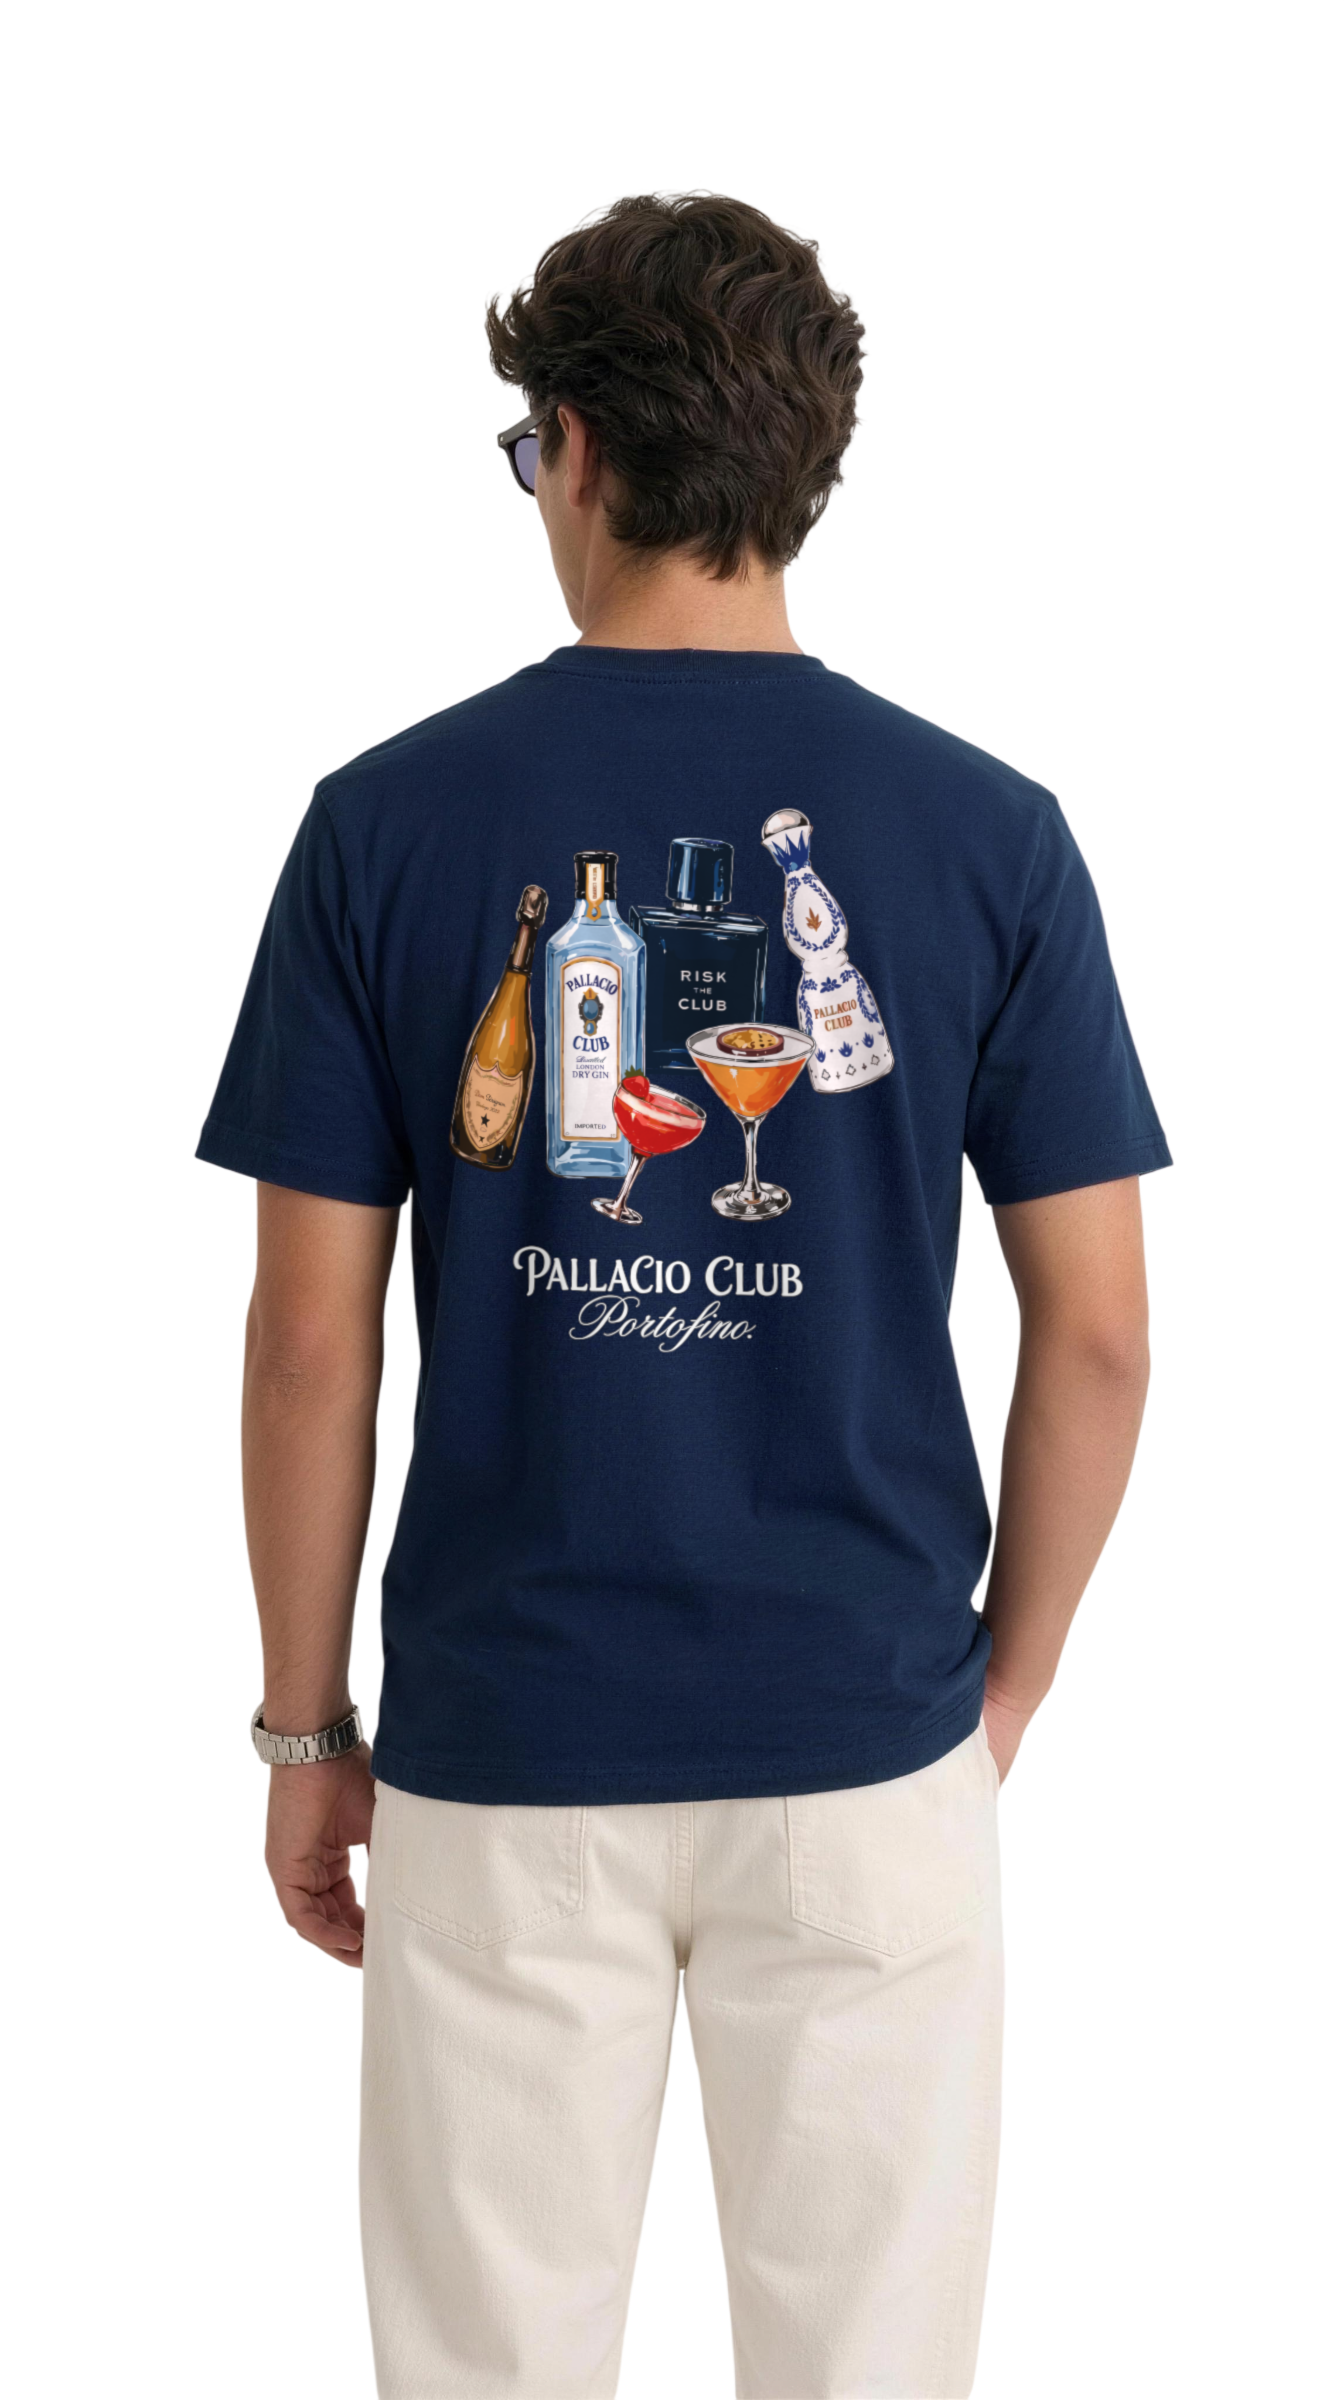
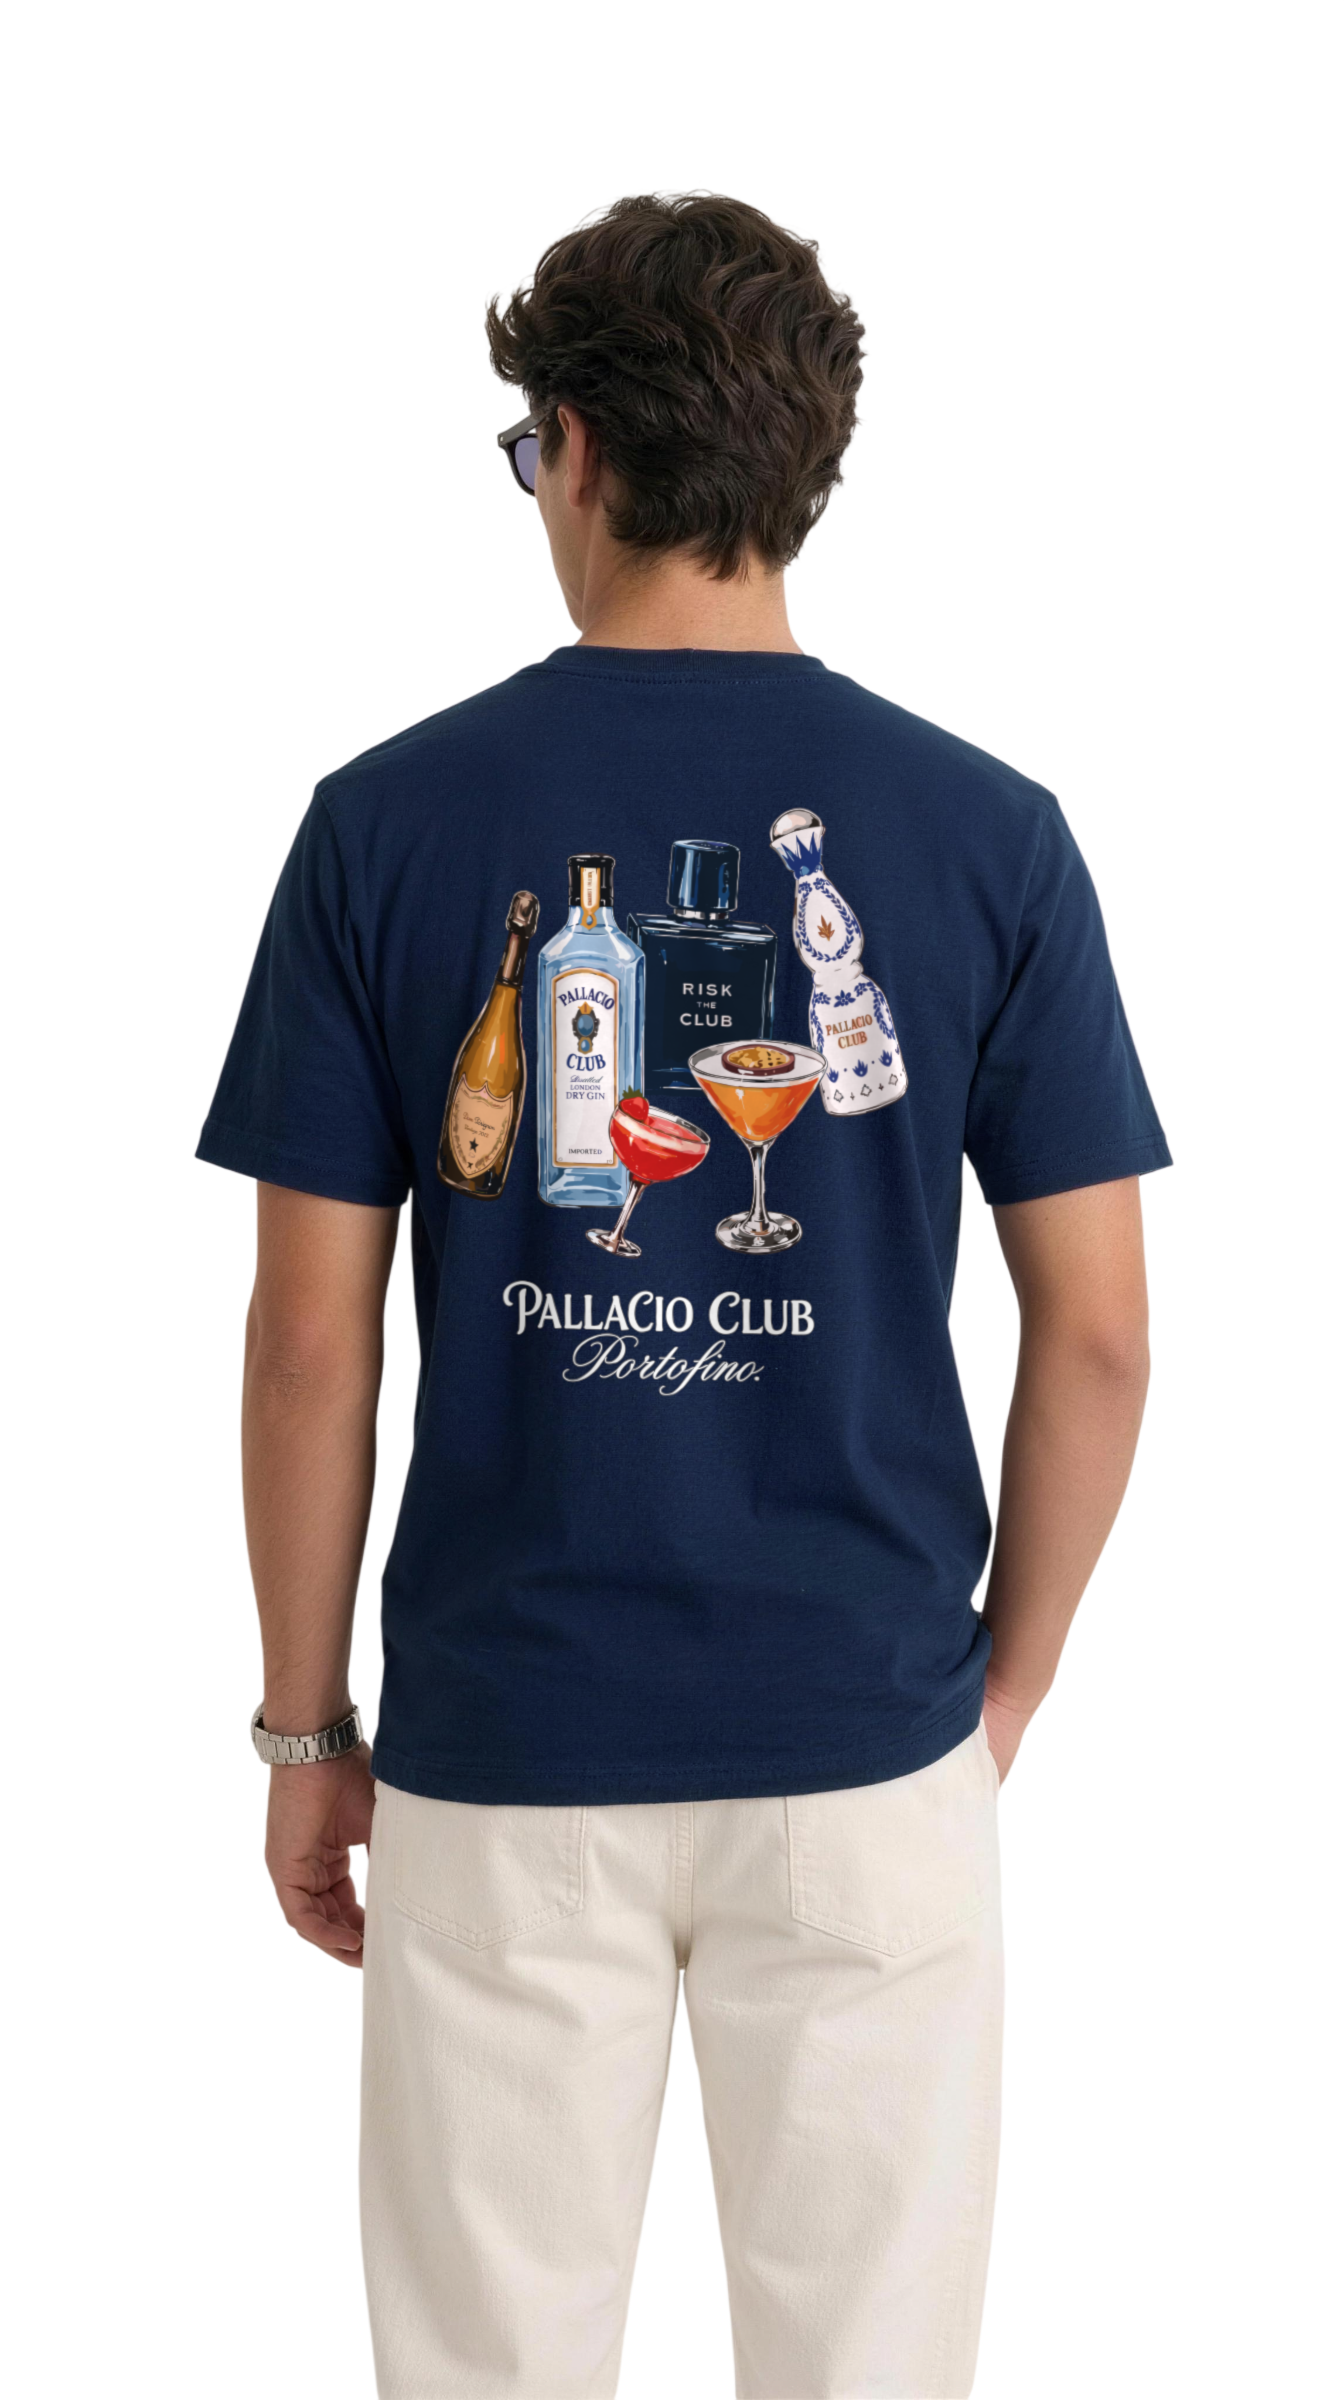
Ajustes: PORTOFINO costas 8% maior; MARTINI girada 3° p/ direita e com mais dobra/trama/granulado na tinta
Claude-Session: https://claude.ai/code/session_015dR8M9wZ7z7a7xaM1gVKNK

Changed region(s): [[0.3125, 0.3125, 0.6875, 0.5938]]

diff --git a/automacao-estampas/amostra_v31.py b/automacao-estampas/amostra_v31.py
@@ -34,6 +34,9 @@ REF = json.load(open(f'{AQUI}/dados/referencia_v2_posicao.json'))
 AJ = {k: v for k, v in json.load(open(f'{AQUI}/dados/ajustes_v31.json')).items() if not k.startswith('_')} \
     if os.path.exists(f'{AQUI}/dados/ajustes_v31.json') else {}
 CM = json.load(open(f'{AQUI}/dados/cores_mockup.json'))
+# Ajustes por produto aprovados pelo dono (escala das costas, giro da arte, realismo extra)
+AP_ARQ = f'{AQUI}/dados/ajustes_produto.json'
+AP = {k: v for k, v in json.load(open(AP_ARQ)).items() if not k.startswith('_')} if os.path.exists(AP_ARQ) else {}
 mapa = list(csv.DictReader(open(R + 'mapa.csv')))
 COR = {'preta': 'Preta', 'branca': 'Branca', 'off-white': 'Off White', 'azul-marinho': 'Azul Marinho'}
 COD = {'azul-marinho': 'AZ', 'branca': 'BR', 'off-white': 'OW', 'preta': 'PT'}
@@ -77,6 +80,12 @@ def arte_e_posicao(prod, c, lado):
     bx0, by0, bx1 = xs.min(), ys.min(), xs.max() + 1
     s = (bx1 - bx0) / float(velha.size[0])
     A = np.array([[s, 0, bx0 + (fx0 - ox0) * s], [0, s, by0 + (fy0 - oy0) * s], [0, 0, 1]])
+    giro = float(AP.get(prod, {}).get('giro_graus', 0.0))   # + = para a direita (horário), em volta do centro da arte
+    if giro:
+        cxa, cya = arte.size[0] / 2.0, arte.size[1] / 2.0
+        t = np.radians(giro); co, si = np.cos(t), np.sin(t)
+        Rr = np.array([[co, -si, cxa - co * cxa + si * cya], [si, co, cya - si * cxa - co * cya], [0, 0, 1]])
+        A = A @ Rr
     return dict(arte=arte, A=A, arquivo=a, png_com_transparencia=tem_alpha, tamanho_png=Image.open(p).size,
                 recorte_fiel=[int(fx0), int(fy0), int(fx1), int(fy1)])
 
@@ -96,7 +105,8 @@ def params_integracao(n, alpha):
     from motor_v3 import srgb_lin
     return dict(branco=float(srgb_lin(np.float32(hi))), preto=float(srgb_lin(np.float32(lo))), dessat=0.05,
                 nitidez_foto=nitidez(orig, pessoa & (np.arange(orig.shape[0])[:, None] > 0)),
-                **(ACABAMENTO if os.environ.get('ACABAMENTO') == '1' else {}))
+                **(ACABAMENTO if os.environ.get('ACABAMENTO') == '1' else {}),
+                **AP.get(prod, {}).get('realismo', {}))
 
 # v3.3: mesmo acabamento de tinta dos mockups lisos aprovados (compositor.aplicar_estampa)
 ACABAMENTO = dict(granulado=float(os.environ.get('GRANULADO', 0.018)), granulado_px=0.6,
@@ -165,9 +175,9 @@ for n in sys.argv[2].split(','):
         # 1ª passada mede a largura que a geometria dá; 2ª corrige só a escala para igualar a v2.
         if not CALIBRAR:                                       # outras estampas: calibração da CAPRESE
             k = CAL[n]
+            esc = k['esc'] * float(AP.get(prod, {}).get('escala_costas', 1.0))
             lay = render_corpo(arte, A, pm, pf, (W, H), cf, tuple(k['ancora_m']), y_ancora_f=REF[n]['topo'],
-                               x_ancora_f=k['xr'], escala_mult=k['esc'])
-            esc = k['esc']
+                               x_ancora_f=k['xr'], escala_mult=esc)
         if CALIBRAR:
             xr = (REF[n]['x0'] + REF[n]['x1']) / 2.0
             lay = render_corpo(arte, A, pm, pf, (W, H), cf, ancora_m, y_ancora_f=REF[n]['topo'], x_ancora_f=xr)

diff --git a/automacao-estampas/motor_v3.py b/automacao-estampas/motor_v3.py
@@ -648,6 +648,10 @@ def compor_logo(foto_u8: np.ndarray, camisa: np.ndarray, pele: np.ndarray, camad
     eps = 0.02                                   # tecido escuro: razão sem explodir no brilho/sombra
     ilum = (lum + eps) / (float(tec) + eps)
     ilum = np.clip(cv2.GaussianBlur(ilum.astype(np.float32), (0, 0), 6.0), 0.55, 1.3)   # só luz, não trama
+    if integra and integra.get('forca_luz', 1.0) != 1.0:         # ajuste por produto (mais dobra/sombra)
+        ilum = np.clip(1 + (ilum - 1) * float(integra['forca_luz']), 0.45, 1.4)
+    if integra and 'textura' in integra:
+        textura = float(integra['textura'])
     trama = cv2.GaussianBlur(lum, (0, 0), 0.6) - cv2.GaussianBlur(lum, (0, 0), 2.0)
     sel = camisa[y0:y1, x0:x1] > 0.5
     trama = trama / (float(np.std(trama[sel])) + 1e-6) * textura if sel.any() else trama * 0
@@ -762,6 +766,10 @@ def compor_v31(foto_u8: np.ndarray, camisa: np.ndarray, pele: np.ndarray, camada
     ruido = float(np.std(ilum - cv2.GaussianBlur(ilum, (0, 0), 1.5))) + 1e-4
     ilum_s = cv2.bilateralFilter(cv2.GaussianBlur(ilum, (0, 0), 1.2), 11, 4 * ruido, 5)
     ilum_s = np.clip(ilum_s, 0.45, 1.35)
+    if integra and integra.get('forca_luz', 1.0) != 1.0:         # ajuste por produto (mais dobra/sombra)
+        ilum_s = np.clip(1 + (ilum_s - 1) * float(integra['forca_luz']), 0.4, 1.45)
+    if integra and 'textura' in integra:
+        textura = float(integra['textura'])
     # dobras: força real (desvio da luz média), não normalizada por foto
     banda = cv2.GaussianBlur(ilum_s, (0, 0), 3) - cv2.GaussianBlur(ilum_s, (0, 0), 30)
     gx = cv2.Sobel(banda, cv2.CV_32F, 1, 0, ksize=3) / 8
